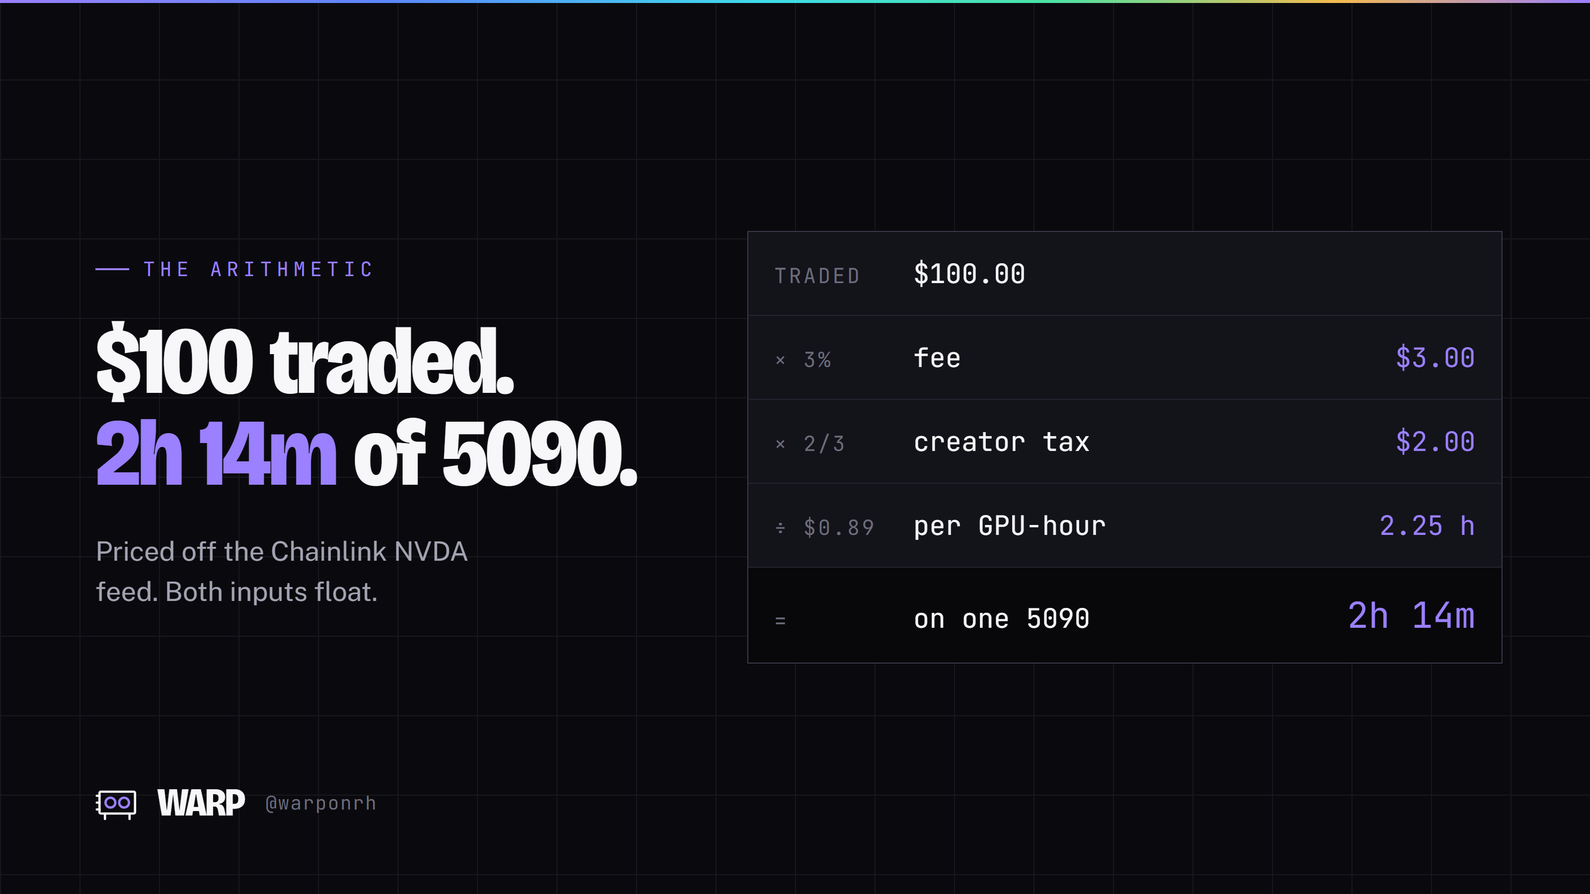
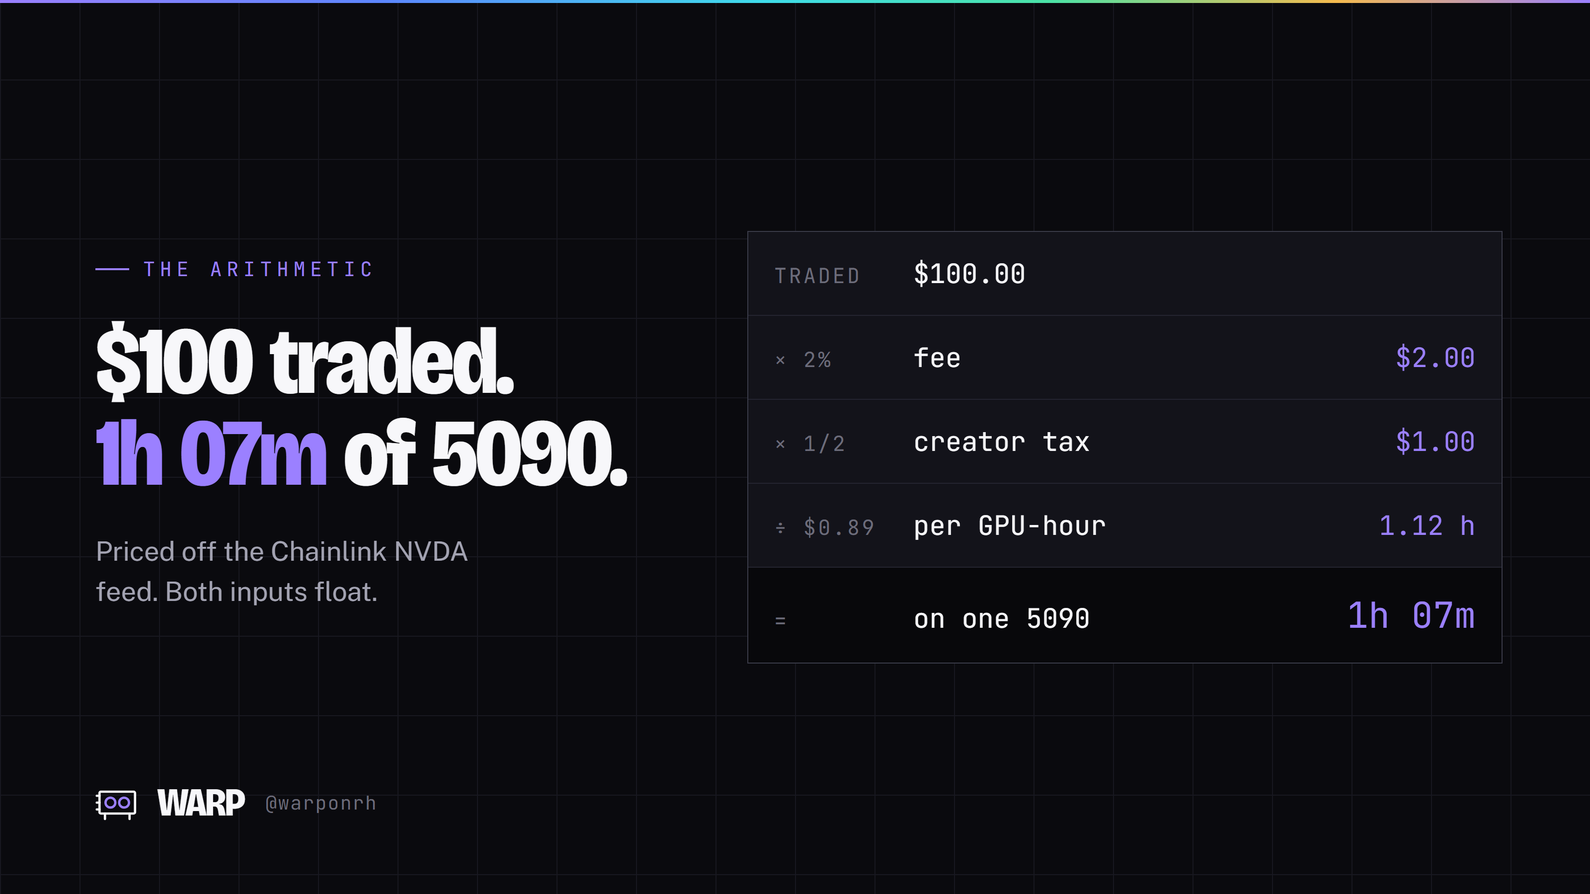
Trading fee 3% -> 2%
Pons keeps its own 1% regardless, so dropping the total to 2% takes the
creator tax to 1% and the share that buys compute from two thirds to a half.
Both had to move together or the arithmetic stops adding up.

- FEE 0.03 -> 0.02, TO_COMPUTE 2/3 -> 1/2 in the estimator
- 26 copy changes across the site: hero, spec strip, the loop, the $100
  split, the parameters table, docs, glossary, the ledger steps, the cluster
  panels, the ascii flow and the meta description
- README, posts.md and the four social cards follow
- Cards re-rendered: $100 now buys 1h 07m instead of 2h 14m, and the
  settlement snapshot halves to 1,348 hours

Checked: no "3%", "two thirds" or stale figure survives anywhere.

Changed region(s): [[0.0625, 0.4667, 0.4062, 0.56], [0.875, 0.6844, 0.9062, 0.7156], [0.875, 0.56, 0.9062, 0.5911]]

diff --git a/index.html b/index.html
@@ -4,7 +4,7 @@
 <meta charset="utf-8">
 <meta name="viewport" content="width=device-width, initial-scale=1">
 <meta name="color-scheme" content="dark light">
-<meta name="description" content="WARP — every trade pays a 3% fee. Two thirds of it buys RTX 5090 capacity, divided hourly among holders as compute credits.">
+<meta name="description" content="WARP — every trade pays a 2% fee. Half of it buys RTX 5090 capacity, divided hourly among holders as compute credits.">
 <meta property="og:title" content="Warp — Fees in. Hours out.">
 <meta property="og:description" content="Trading fees, converted into time on an RTX 5090. On Robinhood Chain, paired against tokenised NVDA.">
 <meta property="og:type" content="website">
@@ -537,7 +537,7 @@ details.q p{padding:0 24px 22px;font-size:16px;color:var(--ink-2);max-width:70ch
     <div class="heroin view on" id="v-hero">
       <span class="kick">Robinhood Chain · paired against tokenised NVDA</span>
       <h1 class="hh">Fees in.<br>Hours out.</h1>
-      <p class="lede">Every WARP buy and sell pays a 3% fee. Two thirds of it — the creator tax — is priced in dollars off the Chainlink NVDA feed and spent on RTX&nbsp;5090 capacity. Once an hour that capacity is divided among holders as compute credits, measured in 5090&nbsp;hours and fixed at the price of the hour they were credited.</p>
+      <p class="lede">Every WARP buy and sell pays a 2% fee. Half of it — the creator tax — is priced in dollars off the Chainlink NVDA feed and spent on RTX&nbsp;5090 capacity. Once an hour that capacity is divided among holders as compute credits, measured in 5090&nbsp;hours and fixed at the price of the hour they were credited.</p>
       <div class="caslot" id="caSlot"></div>
       <div class="cta">
         <button class="b1" data-open="intake">Enter the cluster</button>
@@ -562,10 +562,10 @@ details.q p{padding:0 24px 22px;font-size:16px;color:var(--ink-2);max-width:70ch
 <div class="view on" id="view-home">
 
 <div class="spec"><div class="wrap" style="padding:0"><div class="g">
-  <div class="sc"><span class="lb">Trading fee</span><div class="v"><em>3%</em> per trade</div>
-    <div class="s">2% creator tax, 1% Pons. On buys and on sells.</div></div>
+  <div class="sc"><span class="lb">Trading fee</span><div class="v"><em>2%</em> per trade</div>
+    <div class="s">1% creator tax, 1% Pons. On buys and on sells.</div></div>
   <div class="sc"><span class="lb">Funds compute</span><div class="v">The <em>creator tax</em></div>
-    <div class="s">Two thirds of the fee. Nothing is minted to pay anyone.</div></div>
+    <div class="s">Half the fee. Nothing is minted to pay anyone.</div></div>
   <div class="sc"><span class="lb">Settlement</span><div class="v">Every <em>hour</em></div>
     <div class="s">Wallets holding 1,000 WARP or more are eligible.</div></div>
   <div class="sc"><span class="lb">You receive</span><div class="v">RTX <em>5090</em> hours</div>
@@ -579,10 +579,10 @@ details.q p{padding:0 24px 22px;font-size:16px;color:var(--ink-2);max-width:70ch
     <p class="sub">Four steps, and none of them mint anything. The only inflow is a fee somebody already paid on a trade that already happened, and the only thing it ever buys is time on a graphics card.</p>
     <div class="loop">
       <button class="lp" data-open="intake"><span class="n">01</span><h3>A trade pays a fee</h3>
-        <p>Every buy and sell on the Pons curve pays 3% of its value in NVDA, the token WARP is paired against. It is charged per side, not per round trip.</p>
+        <p>Every buy and sell on the Pons curve pays 2% of its value in NVDA, the token WARP is paired against. It is charged per side, not per round trip.</p>
         <span class="tag">→ the intake</span></button>
       <button class="lp" data-open="desk"><span class="n">02</span><h3>The tax buys capacity</h3>
-        <p>The 2% creator tax is priced in dollars with the Chainlink NVDA feed and spent on RTX 5090 capacity at the current rate. The remaining 1% funds the launchpad and operations.</p>
+        <p>The 1% creator tax is priced in dollars with the Chainlink NVDA feed and spent on RTX 5090 capacity at the current rate. The other 1% funds the launchpad and operations.</p>
         <span class="tag">→ the desk</span></button>
       <button class="lp" data-open="shutter"><span class="n">03</span><h3>It is divided hourly</h3>
         <p>Once an hour, purchased capacity is allocated to qualifying wallets by their share of eligible WARP. A wallet must hold at least 1,000 to be counted.</p>
@@ -601,15 +601,15 @@ details.q p{padding:0 24px 22px;font-size:16px;color:var(--ink-2);max-width:70ch
           <button data-a="10000">$10k</button>
           <button data-a="100000">$100k</button>
         </div>
-        <div class="orow" style="margin-top:16px"><span>Trading fee · 3%</span><b id="f1">$2.00</b></div>
-        <div class="orow"><span>Holder compute · 2%</span><b class="v" id="f2">$1.00</b></div>
+        <div class="orow" style="margin-top:16px"><span>Trading fee · 2%</span><b id="f1">$2.00</b></div>
+        <div class="orow"><span>Holder compute · 1%</span><b class="v" id="f2">$1.00</b></div>
         <div class="orow"><span>Pons &amp; operations · 1%</span><b id="f3">$1.00</b></div>
         <div class="orow"><span>Bought at <span id="f5">$0.89</span>/hour</span><b class="v" id="f4">1.12 h</b></div>
         <div class="orow"><span>Equivalent time</span><b id="f6">about 1 h 07</b></div>
       </div>
       <div class="hf">
         <pre id="flow"></pre>
-        <p style="margin-top:14px">The fee is charged in NVDA and converted at the Chainlink feed price, so the dollar figure is the same number the purchase is made against. Two thirds of it leaves as compute. The remaining third is not a rake on your credits — it never enters the compute pool at all.</p>
+        <p style="margin-top:14px">The fee is charged in NVDA and converted at the Chainlink feed price, so the dollar figure is the same number the purchase is made against. Half of it leaves as compute. The other half is not a rake on your credits — it never enters the compute pool at all.</p>
       </div>
     </div>
   </div>
@@ -638,7 +638,7 @@ details.q p{padding:0 24px 22px;font-size:16px;color:var(--ink-2);max-width:70ch
         <div class="big" style="margin:8px 0 4px"><em id="oHrs">0.00</em><small>RTX 5090 hours</small></div>
         <div style="font-size:14px;color:var(--ink-2);margin-bottom:16px" id="oMin">about 0 min</div>
         <div class="orow"><span>Fees collected</span><b id="oFee">$0</b></div>
-        <div class="orow"><span>Of which buys compute · 2%</span><b id="oTax">$0</b></div>
+        <div class="orow"><span>Of which buys compute · 1%</span><b id="oTax">$0</b></div>
         <div class="orow"><span>Hours purchased, all holders</span><b id="oBought">0</b></div>
         <div class="orow"><span>Your share of eligible supply</span><b class="v" id="oShare">0%</b></div>
         <div class="orow"><span>Per hourly settlement</span><b id="oPer">0.000 h</b></div>
@@ -704,9 +704,9 @@ details.q p{padding:0 24px 22px;font-size:16px;color:var(--ink-2);max-width:70ch
       <table class="tb">
         <thead><tr><th>Parameter</th><th>Value</th><th>Moves?</th></tr></thead>
         <tbody>
-          <tr><td>Trading fee</td><td>3% on buys and sells — 2% creator tax, 1% Pons</td><td>No</td></tr>
-          <tr><td>Holder allocation</td><td>The creator tax · two thirds of collected fees</td><td>No</td></tr>
-          <tr><td>Pons &amp; operations</td><td>The Pons fee · one third of collected fees</td><td>No</td></tr>
+          <tr><td>Trading fee</td><td>2% on buys and sells — 1% creator tax, 1% Pons</td><td>No</td></tr>
+          <tr><td>Holder allocation</td><td>The creator tax · half of collected fees</td><td>No</td></tr>
+          <tr><td>Pons &amp; operations</td><td>The Pons fee · half of collected fees</td><td>No</td></tr>
           <tr><td>Minimum balance</td><td>1,000 WARP</td><td>Published if it ever does</td></tr>
           <tr><td>Balance snapshot</td><td>Once per hour</td><td>Published if it ever does</td></tr>
           <tr><td>Pricing feed</td><td>Chainlink NVDA</td><td>No</td></tr>
@@ -747,14 +747,14 @@ details.q p{padding:0 24px 22px;font-size:16px;color:var(--ink-2);max-width:70ch
       </div>
       <article>
         <section id="d1"><h3>The fee</h3>
-          <p>WARP trades against tokenised NVDA on a Pons curve. Every buy and every sell pays <code>3%</code> of its value, charged in NVDA. That 3% splits two ways: a <code>2%</code> creator tax, which is the only thing that funds holder compute, and a <code>1%</code> Pons fee, which funds the launchpad and operations.</p>
+          <p>WARP trades against tokenised NVDA on a Pons curve. Every buy and every sell pays <code>2%</code> of its value, charged in NVDA. That 2% splits in half: a <code>1%</code> creator tax, which is the only thing that funds holder compute, and a <code>1%</code> Pons fee, which funds the launchpad and operations.</p>
           <h4>Per side, not per round trip</h4>
           <p>A round trip is two events and the curve charges each. Someone who buys and later sells has paid twice. The headline number is the one people quote; the effective number is the one people feel, so both are printed.</p>
           <div class="callout"><p><b>The creator tax is the only inflow to compute.</b> No tokens are issued to fund it, there is no treasury of WARP to sell, and there is no emission schedule. If nobody trades, nothing is collected and the hourly settlement divides zero.</p></div>
         </section>
 
         <section id="d2"><h3>Buying capacity</h3>
-          <p>The 2% creator tax arrives in NVDA. It is priced in dollars using the <b>Chainlink NVDA feed</b>, so the figure the purchase is made against is the same figure anyone else can read, and it is then spent on RTX 5090 capacity at the current rate.</p>
+          <p>The 1% creator tax arrives in NVDA. It is priced in dollars using the <b>Chainlink NVDA feed</b>, so the figure the purchase is made against is the same figure anyone else can read, and it is then spent on RTX 5090 capacity at the current rate.</p>
           <p>The 5090 price is updated weekly. Hours are <b>fixed at the price in effect when they are credited</b> — a later price change does not revalue an hour already in your ledger, in either direction.</p>
           <h4>Why compute and not cash</h4>
           <p>Paying holders cash in proportion to their holdings is the shape of a security nearly everywhere anyone is reading this. Compute is a good: you receive access to a machine, priced at what the machine costs. That distinction is not a wrapper around the same thing — it is the load-bearing wall of the entire design, and everything else is built to keep it true.</p>
@@ -819,8 +819,8 @@ details.q p{padding:0 24px 22px;font-size:16px;color:var(--ink-2);max-width:70ch
           <div class="sx"><table class="tb">
             <thead><tr><th>Term</th><th>Means</th></tr></thead>
             <tbody>
-              <tr><td>Creator tax</td><td>The 2% of each trade that funds holder compute. Two thirds of the 3% fee.</td></tr>
-              <tr><td>Pons fee</td><td>The remaining 1%. Funds the launchpad and operations. It never enters the compute pool.</td></tr>
+              <tr><td>Creator tax</td><td>The 1% of each trade that funds holder compute. Half of the 2% fee.</td></tr>
+              <tr><td>Pons fee</td><td>The other 1%. Funds the launchpad and operations. It never enters the compute pool.</td></tr>
               <tr><td>Eligible WARP</td><td>The sum of all balances at or above 1,000 WARP at the snapshot block.</td></tr>
               <tr><td>Settlement</td><td>The hourly allocation of purchased capacity to eligible wallets.</td></tr>
               <tr><td>Credit</td><td>One unit of prepaid compute, denominated in RTX 5090 hours, fixed at the price of its hour.</td></tr>
@@ -908,7 +908,7 @@ details.q p{padding:0 24px 22px;font-size:16px;color:var(--ink-2);max-width:70ch
       <div class="t"><span class="n">Display</span><span class="d">Bricolage Grotesque</span>
         <span class="u" style="margin-left:auto">800 &middot; width axis 82</span></div>
       <div class="t"><span class="n">Text</span><span class="u" style="font-size:24px;color:var(--ink)">Public Sans &mdash; everything you read as a sentence.</span></div>
-      <div class="t"><span class="n">Data</span><span class="m">JetBrains Mono &middot; 0x9dd5&hellip;6302 &middot; 2,697 h &middot; $0.89</span></div>
+      <div class="t"><span class="n">Data</span><span class="m">JetBrains Mono &middot; 0x9dd5&hellip;6302 &middot; 1,348 h &middot; $0.89</span></div>
       <div class="t"><span class="n">Rule</span><span class="u">If it is a figure, it is monospaced. No exceptions anywhere on the site.</span></div>
     </div>
 
@@ -957,7 +957,7 @@ details.q p{padding:0 24px 22px;font-size:16px;color:var(--ink-2);max-width:70ch
       <div class="st"><span class="n">01</span><h5>Top of every hour</h5>
         <p>Every address holding at least 1,000 WARP is read from the chain at the first block after the hour.</p></div>
       <div class="st"><span class="n">02</span><h5>Fees are converted</h5>
-        <p>The fees collected in that hour are split. Two thirds &mdash; the creator tax &mdash; buys RTX 5090 hours at the current rate.</p></div>
+        <p>The fees collected in that hour are split. Half &mdash; the creator tax &mdash; buys RTX 5090 hours at the current rate.</p></div>
       <div class="st"><span class="n">03</span><h5>Credits are added</h5>
         <p>Each eligible address gets hours by its share of eligible WARP. No transaction is needed and nothing moves on-chain.</p></div>
       <div class="st"><span class="n">04</span><h5>Claim when you want</h5>
@@ -1055,7 +1055,7 @@ const LINKS = {
   ca:       window.__WARP_CA__       || "",                  // ← set WARP_CA to fill every slot
   explorer: window.__WARP_EXPLORER__ || "https://robinhoodchain.blockscout.com/address/"
 };
-const FEE = 0.03, TO_COMPUTE = 2/3, MIN_HOLD = 1000, KEY_CAP = 40, CHAIN = 4663;
+const FEE = 0.02, TO_COMPUTE = 0.5, MIN_HOLD = 1000, KEY_CAP = 40, CHAIN = 4663;
 
 const usd = v => v >= 1e6 ? "$"+(v/1e6).toFixed(2)+"m" : v >= 1e3 ? "$"+(v/1e3).toFixed(v>=1e4?0:1)+"k"
   : v >= 10 ? "$"+v.toFixed(0) : "$"+v.toFixed(2);
@@ -1169,7 +1169,7 @@ function drawSplit(){
   $("#flow").textContent =
     `${usd(AMT)} traded\n` +
     `      │\n` +
-    `${usd(fee)} fee  ·  3%\n` +
+    `${usd(fee)} fee  ·  2%\n` +
     `      │\n` +
     `┌──────────────────────────┬──────────────────────────┐\n` +
     `│ ${pad(usd(comp)+" holder compute")}│ ${pad(usd(tre)+" Pons + ops")}│\n` +
@@ -1608,11 +1608,11 @@ const HALL = (function(){
 
 /* ════════ panels ════════ */
 const P = {
-intake:[["lead","Every buy and every sell of WARP pays 3% of its value, charged in NVDA on the Pons curve. It splits two ways: a 2% creator tax, which is the only thing that funds holder compute, and a 1% Pons fee, which funds the launchpad and operations."],
+intake:[["lead","Every buy and every sell of WARP pays 2% of its value, charged in NVDA on the Pons curve. It splits in half: a 1% creator tax, which is the only thing that funds holder compute, and a 1% Pons fee, which funds the launchpad and operations."],
 ["","It is charged per side, not per round trip. Someone who buys and later sells has paid twice. <b>The creator tax is the only inflow.</b> No WARP is issued to fund compute, so if nobody trades, nothing is collected and the hourly settlement divides zero."],
 ["fl","The busbars here brighten with volume. Move the volume slider in the estimator and watch them — this room and that number are the same variable."]],
 
-desk:[["lead","The creator tax arrives in NVDA. It is priced in dollars using the <b>Chainlink NVDA feed</b> — the same figure anyone else can read — and spent on RTX 5090 capacity at the current rate."],
+desk:[["lead","The 1% creator tax arrives in NVDA. It is priced in dollars using the <b>Chainlink NVDA feed</b> — the same figure anyone else can read — and spent on RTX 5090 capacity at the current rate."],
 ["","The 5090 price is updated weekly, and hours are fixed at the price in effect when they are credited. A later price change never revalues an hour already in your ledger, in either direction."],
 ["","<b>Why compute and not cash.</b> Cash paid to holders in proportion to their holdings is the shape of a security nearly everywhere. Compute is a good: access to a machine, at what the machine costs. That is the load-bearing wall of this design, not a wrapper around the same thing."]],
 
@@ -1635,8 +1635,8 @@ pod:[["lead","A pod is a whole RTX 5090 with a root shell. Choose an image, it b
 };
 const LIVE = {
   intake:()=>{ const f = E.vol*FEE; return [
-    ["Fee per trade","3%","v"],["30-day volume · yours",usd(E.vol),""],
-    ["Fees collected",usd(f),""],["To compute · 2%",usd(f*TO_COMPUTE),"v"],["Issued to fund it","0 WARP","o"]]; },
+    ["Fee per trade","2%","v"],["30-day volume · yours",usd(E.vol),""],
+    ["Fees collected",usd(f),""],["To compute · 1%",usd(f*TO_COMPUTE),"v"],["Issued to fund it","0 WARP","o"]]; },
   desk:()=>{ const b = E.price>0 ? E.vol*FEE*TO_COMPUTE/E.price : 0; return [
     ["5090 · per hour","$"+E.price.toFixed(2),""],["Hours purchased · 30d",num(b)+" h","v"],
     ["Priced by","Chainlink NVDA feed",""],["Price updated","weekly",""],["Credited hours","fixed at their hour","o"]]; },

diff --git a/brand/card.html b/brand/card.html
@@ -95,11 +95,11 @@ const CARDS = [
 {
   k:"The fee",
   h:'Fees in.<br>Hours out.',
-  s:'3% a trade. Two thirds of it buys <b>RTX 5090</b> time at spot.',
+  s:'2% a trade. Half of it buys <b>RTX 5090</b> time at spot.',
   a:`<div class="pan">
       <div class="ph"><span>Per trade</span><span>NVDA pair · Pons</span></div>
-      <div class="row"><span>trading fee</span><b>3.00%</b></div>
-      <div class="row"><span>creator tax → compute</span><b class="v">2.00%</b></div>
+      <div class="row"><span>trading fee</span><b>2.00%</b></div>
+      <div class="row"><span>creator tax → compute</span><b class="v">1.00%</b></div>
       <div class="row"><span>pons + operations</span><b class="d">1.00%</b></div>
       <div class="row"><span>minted for rewards</span><b class="o">0</b></div>
       <div class="row big"><span>inflow to compute</span><b class="v">the tax, and nothing else</b></div>
@@ -107,14 +107,14 @@ const CARDS = [
 },
 {
   k:"The arithmetic",
-  h:'$100 traded.<br><em>2h&nbsp;14m</em> of 5090.',
+  h:'$100 traded.<br><em>1h&nbsp;07m</em> of 5090.',
   s:'Priced off the Chainlink NVDA feed. Both inputs float.',
   a:`<div class="pan eq">
       <div class="st"><span class="op">traded</span>$100.00</div>
-      <div class="st"><span class="op">× 3%</span>fee<span class="out">$3.00</span></div>
-      <div class="st"><span class="op">× 2/3</span>creator tax<span class="out">$2.00</span></div>
-      <div class="st"><span class="op">÷ $0.89</span>per GPU-hour<span class="out">2.25 h</span></div>
-      <div class="st f"><span class="op">=</span>on one 5090<span class="out">2h 14m</span></div>
+      <div class="st"><span class="op">× 2%</span>fee<span class="out">$2.00</span></div>
+      <div class="st"><span class="op">× 1/2</span>creator tax<span class="out">$1.00</span></div>
+      <div class="st"><span class="op">÷ $0.89</span>per GPU-hour<span class="out">1.12 h</span></div>
+      <div class="st f"><span class="op">=</span>on one 5090<span class="out">1h 07m</span></div>
     </div>`
 },
 {
@@ -122,12 +122,12 @@ const CARDS = [
   h:'Every hour,<br>on the hour.',
   s:'Split by share of <b>eligible</b> supply. Nothing is staked.',
   a:`<div class="pan">
-      <div class="ph"><span>Snapshot · block 7 000 611</span><span>2 697 h</span></div>
+      <div class="ph"><span>Snapshot · block 7 000 611</span><span>1 348 h</span></div>
       <table>
         <tr><th>wallet</th><th>balance</th><th>share</th><th>hours</th></tr>
-        <tr><td class="hi">0x76a3…d784</td><td>12,400,000</td><td class="v">1.240%</td><td class="hi">33.44</td></tr>
-        <tr><td class="hi">0x00e3…ff12</td><td>3,150,000</td><td class="v">0.315%</td><td class="hi">8.49</td></tr>
-        <tr><td class="hi">0x9e8e…5535</td><td>250,000</td><td class="v">0.025%</td><td class="hi">0.67</td></tr>
+        <tr><td class="hi">0x76a3…d784</td><td>12,400,000</td><td class="v">1.240%</td><td class="hi">16.72</td></tr>
+        <tr><td class="hi">0x00e3…ff12</td><td>3,150,000</td><td class="v">0.315%</td><td class="hi">4.25</td></tr>
+        <tr><td class="hi">0x9e8e…5535</td><td>250,000</td><td class="v">0.025%</td><td class="hi">0.34</td></tr>
         <tr><td class="d">0x4c11…a0b8</td><td class="d">840</td><td class="d">—</td><td class="d">under 1,000</td></tr>
       </table>
     </div>`

diff --git a/README.md b/README.md
@@ -3,7 +3,7 @@
 **Fees in. Hours out.**
 
 A token on Robinhood Chain, paired against tokenised NVDA. Every buy and sell pays a
-3% fee — a 2% creator tax and a 1% Pons fee. The creator tax is priced in dollars
+2% fee — a 1% creator tax and a 1% Pons fee. The creator tax is priced in dollars
 against the Chainlink NVDA feed and spent on RTX 5090 capacity. Once an hour that
 capacity is divided among holders as compute credits, measured in 5090 hours and
 fixed at the price of the hour they were credited.
@@ -16,8 +16,8 @@ guaranteed.
 
 | Step | What happens |
 |---|---|
-| **Trade** | Every buy and sell on the Pons curve pays 3% of its value in NVDA. Per side, not per round trip. |
-| **Buy capacity** | The 2% creator tax is priced via Chainlink NVDA and spent on RTX 5090 hours at the current rate. |
+| **Trade** | Every buy and sell on the Pons curve pays 2% of its value in NVDA. Per side, not per round trip. |
+| **Buy capacity** | The 1% creator tax is priced via Chainlink NVDA and spent on RTX 5090 hours at the current rate. |
 | **Settle** | Once an hour, wallets holding ≥ 1,000 WARP are recorded and capacity is split by share of *eligible* supply. |
 | **Claim** | Credits sit in your ledger until you attach them to an API key. Nothing expires, nothing is pushed. |
 
@@ -25,8 +25,8 @@ guaranteed.
 
 | Parameter | Value |
 |---|---|
-| Trading fee | 3% per side — 2% creator tax, 1% Pons |
-| Holder allocation | The creator tax, two thirds of collected fees |
+| Trading fee | 2% per side — 1% creator tax, 1% Pons |
+| Holder allocation | The creator tax, half of collected fees |
 | Minimum balance | 1,000 WARP |
 | Settlement | Hourly |
 | Pricing feed | Chainlink NVDA |

diff --git a/brand/posts.md b/brand/posts.md
@@ -11,7 +11,7 @@ as the site: no APY, no rate, nothing promised that the mechanism could not keep
 
 Meet Warp.
 
-Every trade pays a 3% fee. Two thirds of it buys RTX 5090 capacity. Once an hour that capacity is split among holders as compute credits — GPU hours you spend through an OpenAI-compatible API, or a pod you SSH into.
+Every trade pays a 2% fee. Half of it buys RTX 5090 capacity. Once an hour that capacity is split among holders as compute credits — GPU hours you spend through an OpenAI-compatible API, or a pod you SSH into.
 
 Trading fees, turned into compute.
 
@@ -57,15 +57,15 @@ Hold the token, spend the compute. Nothing else to sign.
 
 Fees in. Hours out.
 
-Every WARP buy and sell pays 3%. Two thirds of it — the creator tax — buys RTX 5090 capacity at spot. Once an hour that capacity is split among holders as compute credits.
+Every WARP buy and sell pays 2%. Half of it — the creator tax — buys RTX 5090 capacity at spot. Once an hour that capacity is split among holders as compute credits.
 
 Nothing is minted to pay anyone. The fee is the only inflow.
 
 ### 07 · The arithmetic — `warp-card-02.png`
 
-$100 traded buys about 2 hours 14 minutes on an RTX 5090.
+$100 traded buys about 1 hour 7 minutes on an RTX 5090.
 
-$100 → $3.00 fee → $2.00 of compute → 2.25 hours at $0.89.
+$100 → $2.00 fee → $1.00 of compute → 1.12 hours at $0.89.
 
 Volume and GPU prices both move. Quiet market, fewer hours. Cheaper cards, more hours. We publish the arithmetic instead of a rate.
 
